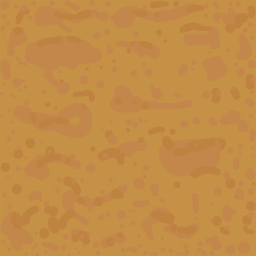
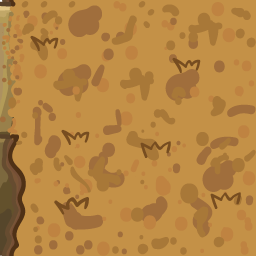
Update floor but fail

diff --git a/utils.py b/utils.py
@@ -135,30 +135,123 @@ def draw_button(rect, text, color=(50, 50, 200)):
     screen.blit(label, (rect.centerx - label.get_width()//2,
                         rect.centery - label.get_height()//2))
 
+# def draw_maze(maze, goal, offset_x, offset_y, wall_mapping, ruin_images, bg_ruin_img):
+#     rows, cols = len(maze), len(maze[0])
+#     start_col = max(0, int(offset_x) // CELL_SIZE)
+#     end_col = min(cols, (int(offset_x) + VIEWPORT_W) // CELL_SIZE + 2)
+#     start_row = max(0, int(offset_y) // CELL_SIZE)
+#     end_row = min(rows, (int(offset_y) + VIEWPORT_H) // CELL_SIZE + 2)
+
+#     for r in range(start_row, end_row):
+#         for c in range(start_col, end_col):
+#             screen_x = c*CELL_SIZE - offset_x
+#             screen_y = r*CELL_SIZE - offset_y
+#             if maze[r][c] == 1:
+#                 if (r, c) not in wall_mapping:
+#                     wall_mapping[(r, c)] = random.choice(ruin_images) if ruin_images else None
+#                 screen.blit(bg_ruin_img, (screen_x, screen_y))
+#                 if wall_mapping[(r, c)]:
+#                     screen.blit(wall_mapping[(r, c)], (screen_x, screen_y))
+#             else:
+#                 screen.blit(floor_img, (screen_x, screen_y))
+#     tr_x = goal[1]*CELL_SIZE - offset_x
+#     tr_y = goal[0]*CELL_SIZE - offset_y
+#     if -CELL_SIZE <= tr_x <= VIEWPORT_W and -CELL_SIZE <= tr_y <= VIEWPORT_H:
+#         screen.blit(treasure_img, (tr_x, tr_y))
+import pygame
+import os
+import random
+import math
+from collections import deque
+from constants import (
+    CELL_SIZE, VIEWPORT_W, VIEWPORT_H, MAP_COLS, MAP_ROWS,
+    asset_path, available_themes
+)
+from PIL import Image, ImageFilter
+import numpy as np
+
+# Giả sử các file road đã được tải và gán vào biến
+road_images = {
+    "road_1": pygame.transform.scale(pygame.image.load(os.path.join(asset_path("road"), "road_1.png")).convert_alpha(), (CELL_SIZE, CELL_SIZE)),
+    "road_2": pygame.transform.scale(pygame.image.load(os.path.join(asset_path("road"), "road_2.png")).convert_alpha(), (CELL_SIZE, CELL_SIZE)),
+    "road_3": pygame.transform.scale(pygame.image.load(os.path.join(asset_path("road"), "road_3.png")).convert_alpha(), (CELL_SIZE, CELL_SIZE)),
+    "road_4": pygame.transform.scale(pygame.image.load(os.path.join(asset_path("road"), "road_4.png")).convert_alpha(), (CELL_SIZE, CELL_SIZE)),
+    "road_5": pygame.transform.scale(pygame.image.load(os.path.join(asset_path("road"), "road_5.png")).convert_alpha(), (CELL_SIZE, CELL_SIZE)),
+    "road_6": pygame.transform.scale(pygame.image.load(os.path.join(asset_path("road"), "road_6.png")).convert_alpha(), (CELL_SIZE, CELL_SIZE)),
+    "road_7": pygame.transform.scale(pygame.image.load(os.path.join(asset_path("road"), "road_7.png")).convert_alpha(), (CELL_SIZE, CELL_SIZE)),
+    "road_8": pygame.transform.scale(pygame.image.load(os.path.join(asset_path("road"), "road_8.png")).convert_alpha(), (CELL_SIZE, CELL_SIZE)),
+    "road_9": pygame.transform.scale(pygame.image.load(os.path.join(asset_path("road"), "road_9.png")).convert_alpha(), (CELL_SIZE, CELL_SIZE)),
+}
+# Tạo các phiên bản lật cho hình ảnh
+road_images["road_9_flipped"] = pygame.transform.flip(road_images["road_9"], True, False)
+
+
 def draw_maze(maze, goal, offset_x, offset_y, wall_mapping, ruin_images, bg_ruin_img):
     rows, cols = len(maze), len(maze[0])
-    start_col = max(0, int(offset_x) // CELL_SIZE)
+    start_col = max(0, int(offset_x) // CELL_SIZE - 1)
     end_col = min(cols, (int(offset_x) + VIEWPORT_W) // CELL_SIZE + 2)
-    start_row = max(0, int(offset_y) // CELL_SIZE)
+    start_row = max(0, int(offset_y) // CELL_SIZE - 1)
     end_row = min(rows, (int(offset_y) + VIEWPORT_H) // CELL_SIZE + 2)
 
+    # First Pass: Draw all road tiles and background
     for r in range(start_row, end_row):
         for c in range(start_col, end_col):
-            screen_x = c*CELL_SIZE - offset_x
-            screen_y = r*CELL_SIZE - offset_y
-            if maze[r][c] == 1:
+            screen_x = c * CELL_SIZE - offset_x
+            screen_y = r * CELL_SIZE - offset_y
+
+            is_wall = maze[r][c] == 1
+            
+            # Draw the background
+            screen.blit(bg_ruin_img, (screen_x, screen_y))
+
+            if not is_wall:
+                # This is a road tile, so we draw the path
+                has_wall_up = r > 0 and maze[r-1][c] == 1
+                has_wall_down = r < rows - 1 and maze[r+1][c] == 1
+                has_wall_left = c > 0 and maze[r][c-1] == 1
+                has_wall_right = c < cols - 1 and maze[r][c+1] == 1
+                has_wall_down_left = r < rows - 1 and c > 0 and maze[r+1][c-1] == 1
+                has_wall_down_right = r < rows - 1 and c < cols - 1 and maze[r+1][c+1] == 1
+
+                if has_wall_up and has_wall_left:
+                    screen.blit(road_images["road_1"], (screen_x, screen_y))
+                elif has_wall_up and has_wall_right:
+                    screen.blit(road_images["road_3"], (screen_x, screen_y))
+                elif has_wall_up:
+                    screen.blit(road_images["road_2"], (screen_x, screen_y))
+                elif has_wall_left:
+                    screen.blit(road_images["road_4"], (screen_x, screen_y))
+                elif has_wall_right:
+                    screen.blit(road_images["road_6"], (screen_x, screen_y))
+                elif has_wall_down and has_wall_left:
+                    screen.blit(road_images["road_7"], (screen_x, screen_y))
+                elif has_wall_down and has_wall_right:
+                    screen.blit(road_images["road_9"], (screen_x, screen_y))
+                elif has_wall_down:
+                    screen.blit(road_images["road_8"], (screen_x, screen_y))
+                else:
+                    screen.blit(road_images["road_5"], (screen_x, screen_y))
+
+    # Second Pass: Draw all wall tiles on top of the road
+    for r in range(start_row, end_row):
+        for c in range(start_col, end_col):
+            screen_x = c * CELL_SIZE - offset_x
+            screen_y = r * CELL_SIZE - offset_y
+
+            is_wall = maze[r][c] == 1
+            
+            if is_wall:
                 if (r, c) not in wall_mapping:
                     wall_mapping[(r, c)] = random.choice(ruin_images) if ruin_images else None
-                screen.blit(bg_ruin_img, (screen_x, screen_y))
                 if wall_mapping[(r, c)]:
                     screen.blit(wall_mapping[(r, c)], (screen_x, screen_y))
-            else:
-                screen.blit(floor_img, (screen_x, screen_y))
-    tr_x = goal[1]*CELL_SIZE - offset_x
-    tr_y = goal[0]*CELL_SIZE - offset_y
+                    
+    # Draw treasure
+    tr_x = goal[1] * CELL_SIZE - offset_x
+    tr_y = goal[0] * CELL_SIZE - offset_y
     if -CELL_SIZE <= tr_x <= VIEWPORT_W and -CELL_SIZE <= tr_y <= VIEWPORT_H:
         screen.blit(treasure_img, (tr_x, tr_y))
-
+        
 def draw_entity(pos, img, offset_x, offset_y):
     x = pos[1]*CELL_SIZE - offset_x
     y = pos[0]*CELL_SIZE - offset_y
